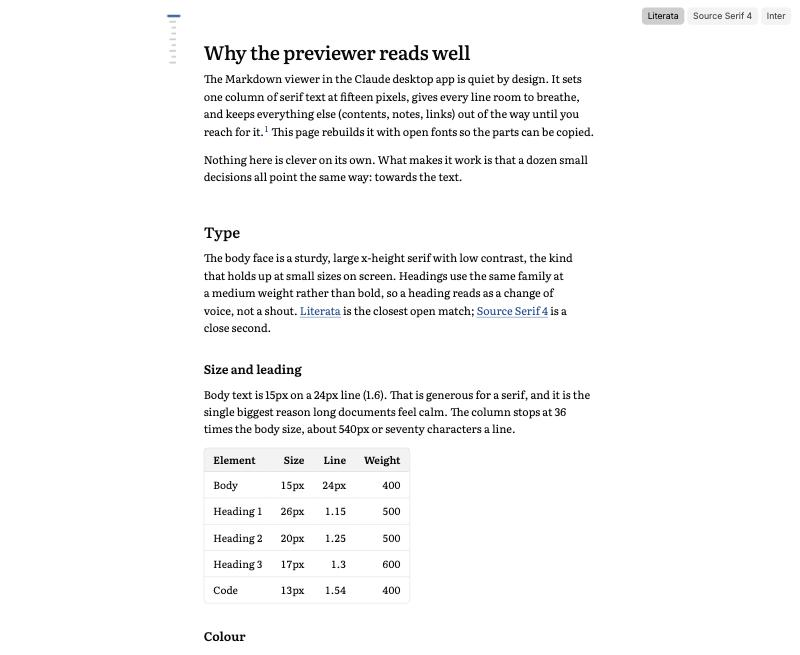
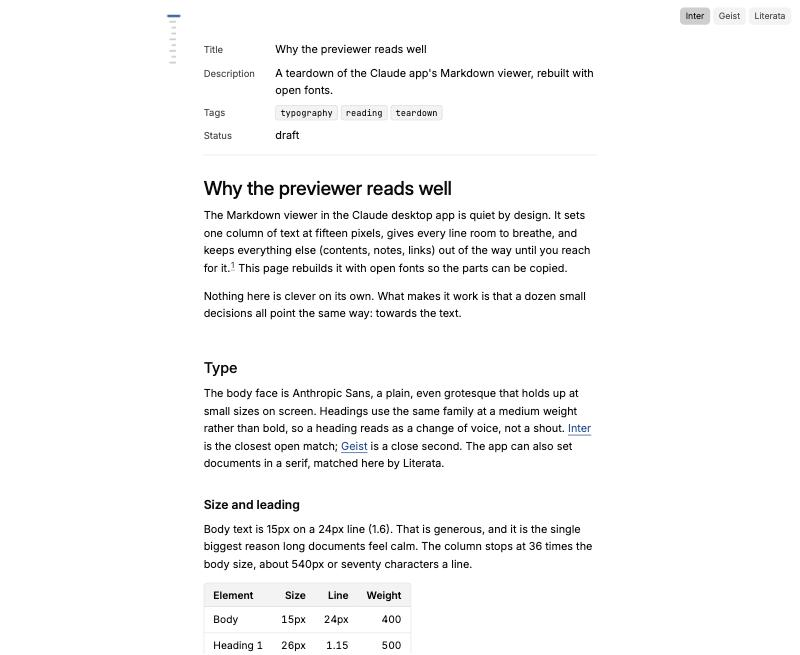
Previewer teardown: real app screenshots, sans not serif, exact type scale, frontmatter
The app's default document view is Anthropic Sans, so the open match is
Inter or Geist (serif kept as an option). Adds the exact heading and body
ratios, the frontmatter field list, wide-table bleed, and grey footnote
markers; the demo now defaults to Inter with a frontmatter block.

diff --git a/claude-md-previewer/demo.html b/claude-md-previewer/demo.html
@@ -6,7 +6,7 @@
 <title>Previewer Reading Demo</title>
 <link rel="preconnect" href="https://fonts.googleapis.com">
 <link rel="preconnect" href="https://fonts.gstatic.com" crossorigin>
-<link href="https://fonts.googleapis.com/css2?family=Literata:ital,opsz,wght@0,7..72,300..700;1,7..72,300..700&family=Source+Serif+4:ital,opsz,wght@0,8..60,300..700;1,8..60,300..700&family=Inter:wght@400..600&family=JetBrains+Mono:wght@400;500&display=swap" rel="stylesheet">
+<link href="https://fonts.googleapis.com/css2?family=Literata:ital,opsz,wght@0,7..72,300..700;1,7..72,300..700&family=Source+Serif+4:ital,opsz,wght@0,8..60,300..700;1,8..60,300..700&family=Inter:ital,opsz,wght@0,14..32,400..600;1,14..32,400..600&family=Geist:wght@400..600&family=JetBrains+Mono:wght@400;500&display=swap" rel="stylesheet">
 <style>
 /* A study of the Claude desktop app's Markdown document viewer, rebuilt with open fonts.
    Values come from the app's own stylesheet (epitaxy-document-*, .prose). See ../Claude Markdown previewer.md */
@@ -28,7 +28,7 @@
   --tint: hsl(0 0% 4% / 5%);          /* alpha-1, code and table-head fill */
   --tick: hsl(0 0% 4% / 25%);
   --paper: #fff;
-  --body-font: var(--serif);
+  --body-font: var(--sans);
 }
 @media (prefers-color-scheme: dark) {
   :root:not([data-theme="light"]) {
@@ -42,8 +42,8 @@
   --line: hsl(40 8% 94% / 10%); --line-2: hsl(40 8% 94% / 20%); --line-3: hsl(40 8% 94% / 40%);
   --tint: hsl(40 8% 94% / 5%); --tick: hsl(40 8% 94% / 25%); --paper: #1e1e1d;
 }
-[data-font="source"] { --body-font: "Source Serif 4", Georgia, serif; }
-[data-font="sans"] { --body-font: var(--sans); }
+[data-font="geist"] { --body-font: "Geist", system-ui, sans-serif; }
+[data-font="serif"] { --body-font: var(--serif); }
 
 * { box-sizing: border-box; }
 html { background: var(--paper); }
@@ -138,9 +138,20 @@ body { margin: 0; background: var(--paper); color: var(--ink); }
 
 .prose hr { border: 0; border-top: 1px solid var(--line); margin-block: 2.75em; }
 
+/* Frontmatter: a quiet two-column list of fields above the title */
+.meta {
+  display: grid; grid-template-columns: minmax(0, max-content) 1fr; align-items: baseline;
+  column-gap: 1.75rem; row-gap: 0.5rem; margin: 0 0 2em; padding-bottom: 1em; border-bottom: 1px solid var(--line);
+  font-family: var(--sans); font-size: var(--body); line-height: 1.6;
+}
+.meta dt { color: var(--ink-2); font-size: 0.87em; }
+.meta dd { margin: 0; min-width: 0; overflow-wrap: break-word; }
+.meta ul { list-style: none; margin: 0; padding: 0; display: flex; flex-wrap: wrap; gap: 4px; }
+.meta li { font-family: var(--mono); font-size: 0.8em; padding: 0 6px; border: 1px solid var(--line); border-radius: 4px; background: var(--tint); }
+
 /* Footnotes: small markers, a quiet section at the end */
 .prose sup { font-size: 0.75em; line-height: 0; }
-.prose sup a { text-decoration: none; padding-inline: 0.1em; border-radius: 3px; }
+.prose sup a { color: var(--ink-2); text-decoration-color: var(--line-3); padding-inline: 0.1em; border-radius: 3px; }
 .prose sup a[aria-expanded="true"] { background: var(--accent-bg); }
 .prose .footnotes { margin-block-start: 3em; padding-block-start: 1em; border-top: 1px solid var(--line); font-size: 0.875em; color: var(--ink-2); }
 .prose .footnotes ol { margin: 0; }
@@ -199,9 +210,9 @@ body { margin: 0; background: var(--paper); color: var(--ink); }
 </head>
 <body>
 <div class="switch" role="group" aria-label="Body font">
-  <button data-set="literata" aria-pressed="true">Literata</button>
-  <button data-set="source" aria-pressed="false">Source Serif 4</button>
-  <button data-set="sans" aria-pressed="false">Inter</button>
+  <button data-set="inter" aria-pressed="true">Inter</button>
+  <button data-set="geist" aria-pressed="false">Geist</button>
+  <button data-set="serif" aria-pressed="false">Literata</button>
 </div>
 
 <nav class="rail" aria-label="Contents" hidden>
@@ -211,21 +222,27 @@ body { margin: 0; background: var(--paper); color: var(--ink); }
 
 <div class="page">
 <div class="column">
+<dl class="meta" aria-label="Page details">
+  <dt>Title</dt><dd>Why the previewer reads well</dd>
+  <dt>Description</dt><dd>A teardown of the Claude app's Markdown viewer, rebuilt with open fonts.</dd>
+  <dt>Tags</dt><dd><ul><li>typography</li><li>reading</li><li>teardown</li></ul></dd>
+  <dt>Status</dt><dd>draft</dd>
+</dl>
 <article class="prose">
 
 <h1 id="why-it-reads-well">Why the previewer reads well</h1>
 
-<p>The Markdown viewer in the Claude desktop app is quiet by design. It sets one column of serif text at fifteen pixels, gives every line room to breathe, and keeps everything else (contents, notes, links) out of the way until you reach for it.<sup><a href="#fn-1" id="fnref-1">1</a></sup> This page rebuilds it with open fonts so the parts can be copied.</p>
+<p>The Markdown viewer in the Claude desktop app is quiet by design. It sets one column of text at fifteen pixels, gives every line room to breathe, and keeps everything else (contents, notes, links) out of the way until you reach for it.<sup><a href="#fn-1" id="fnref-1">1</a></sup> This page rebuilds it with open fonts so the parts can be copied.</p>
 
 <p>Nothing here is clever on its own. What makes it work is that a dozen small decisions all point the same way: towards the text.</p>
 
 <h2 id="type">Type</h2>
 
-<p>The body face is a sturdy, large x-height serif with low contrast, the kind that holds up at small sizes on screen. Headings use the same family at a medium weight rather than bold, so a heading reads as a change of voice, not a shout. <a href="https://fonts.google.com/specimen/Literata">Literata</a> is the closest open match; <a href="https://fonts.google.com/specimen/Source+Serif+4">Source Serif 4</a> is a close second.</p>
+<p>The body face is Anthropic Sans, a plain, even grotesque that holds up at small sizes on screen. Headings use the same family at a medium weight rather than bold, so a heading reads as a change of voice, not a shout. <a href="https://fonts.google.com/specimen/Inter">Inter</a> is the closest open match; <a href="https://fonts.google.com/specimen/Geist">Geist</a> is a close second. The app can also set documents in a serif, matched here by Literata.</p>
 
 <h3 id="size-and-leading">Size and leading</h3>
 
-<p>Body text is 15px on a 24px line (1.6). That is generous for a serif, and it is the single biggest reason long documents feel calm. The column stops at 36 times the body size, about 540px or seventy characters a line.</p>
+<p>Body text is 15px on a 24px line (1.6). That is generous, and it is the single biggest reason long documents feel calm. The column stops at 36 times the body size, about 540px or seventy characters a line.</p>
 
 <table>
 <thead><tr><th>Element</th><th class="num">Size</th><th class="num">Line</th><th class="num">Weight</th></tr></thead>

diff --git a/Claude Markdown previewer.md b/Claude Markdown previewer.md
@@ -1,62 +1,71 @@
 ---
-title: Why the Claude Markdown previewer reads so well
-description: A teardown of the document viewer in the Claude desktop app (fonts, sizes, colours, contents rail, footnote cards) with open-font equivalents and what to borrow for Flowershow research sites.
+title: "Claude Markdown previewer: an admiring teardown"
+description: Why the document viewer in the Claude desktop app reads so well (fonts, sizes, colours, frontmatter, contents rail, footnote cards), with open-font equivalents and what to borrow for Flowershow research sites.
 date: 2026-10-31
 ---
 
-The Markdown previewer in the Claude desktop app (the Files pane in the Code tab) reads better than almost any docs or research site. This page works out why, from the app's own stylesheet, and rebuilds it with open fonts so we can borrow it for our [[Flowershow]] research and knowledge-base sites.
+An admiring teardown. The Markdown previewer in the Claude desktop app (the Files pane in the Code tab) reads better than almost any docs or research site. This page works out why, from the app's own stylesheet, and rebuilds it with open fonts so we can borrow it for our [[Flowershow]] research and knowledge-base sites.
 
-**Demo:** [claude-md-previewer/demo.html](claude-md-previewer/demo.html), a rebuild with open fonts. Switch the body font (Literata, Source Serif 4, Inter), hover the ticks on the left for the contents, click a footnote number.
+![The previewer in the Claude app: frontmatter as a quiet table, then the title, sans body text, and the tick rail on the left](assets/claude-md-previewer-app-page.png)
 
-![The rebuild with Literata: one column, serif body, tick rail on the left](assets/claude-md-previewer-demo.jpg)
+**Demo:** [claude-md-previewer/demo.html](claude-md-previewer/demo.html), a rebuild with open fonts. Switch the body font (Inter, Geist, or Literata for a serif), hover the ticks on the left for the contents, click a footnote number.
 
 ## TL;DR
 
 It isn't one clever trick. A dozen small choices all favour the text:
 
-- a sturdy serif at **15px on a 24px line** (1.6)
+- a plain, even sans at **15px on a 24px line** (1.6)
 - a **540px column** (36 × body size, about 70 characters)
 - headings in the **same face at medium weight**, with space above that grows with rank
 - **every border and fill is the ink colour at 5, 10 or 20% opacity**
-- contents and footnotes that **stay out of sight until you reach for them**
+- frontmatter, contents and footnotes that **stay quiet until you reach for them**
 
 ## How I found this
 
-Everything below comes from the app's own CSS, read in place from `/Applications/Claude.app/Contents/Resources/ion-dist.asar` (the Code tab UI). The previewer is the `epitaxy-document-*` component, built on a shared `.prose` stylesheet. Colours come from the app's design tokens (`--cds-gray-*`, `--cds-blue-*`). The fonts ship in `Contents/Resources/fonts/`. Sizes are for the default "Medium" text size.
+Everything below comes from the app's own CSS, read in place from `/Applications/Claude.app/Contents/Resources/ion-dist.asar` (the Code tab UI). The previewer is the `epitaxy-document-*` component, built on a shared `.prose` stylesheet. Colours come from the app's design tokens (`--cds-gray-*`, `--cds-blue-*`). The fonts ship in `Contents/Resources/fonts/`. Sizes are for the default "Medium" text size. The app screenshots are Rufus's course drafts open in the previewer.
 
 ## Fonts
 
 **What it uses**
 
-- **Body and headings: Anthropic Serif**, a variable face with weights 300 to 800. The document view uses serif by default, with Sans as a setting. Body weight is 400.
-- **UI (contents panel, buttons): Anthropic Sans.**
+- **Body, headings, frontmatter and UI: Anthropic Sans**, a variable grotesque with weights 300 to 800. Body weight is 400, headings 500.
+- **Serif option: Anthropic Serif.** The code can set documents in serif instead (a font setting), but the default view, as in the screenshots, is sans.
 - **Code:** the system mono (SF Mono, then Menlo).
 
-Anthropic Serif appears to be the house successor to the Copernicus-style serif noted in [[Copernicus font alternatives]]. It has the same character: Plantin-like, wide, a big x-height, low contrast and sturdy strokes. That is why it holds up at 15px on screen. Neither Anthropic face can be reused.
+Anthropic Sans is a plain, even grotesque: open shapes, moderate x-height, no quirks. It is neutral enough to disappear at reading size, which is the point. Neither Anthropic face can be reused.
 
-**Why it works:** a big x-height makes 15px read like 17px in a book face. Low contrast stays crisp on ordinary screens. Using one family for headings and body keeps the page calm.
+**Why it works:** the face never draws attention to itself, and one family for headings, body and labels keeps the page calm. By contrast, Bricolage Grotesque's quirks (ink traps, wide rounds) are lovely at display sizes but noticeable in long text.
 
-**Open equivalents** (same paragraph, same size and leading):
+**Open equivalents for the sans** (same paragraph, same size and leading):
 
-![Anthropic Serif and Sans from the app compared with open serifs](assets/claude-md-previewer-fonts.jpg)
+![Anthropic Sans compared with open sans faces and Bricolage Grotesque](assets/claude-md-previewer-sans.jpg)
 
 | Rank | Face | Licence | Verdict |
 |---|---|---|---|
-| 1 | **[Literata](https://fonts.google.com/specimen/Literata)** | OFL, Google Fonts | Closest in feel: big x-height, sturdy, made for long screen reading, optical sizes. Runs about 5% wider, so lines hold a few fewer words |
-| 2 | **[Source Serif 4](https://fonts.google.com/specimen/Source+Serif+4)** | OFL, Google Fonts | Closest in width. Slightly crisper and more "book". Already the body face in our [Reading System](reading-system/) Academic theme |
-| 3 | [Charis SIL](https://fonts.google.com/specimen/Charis+SIL) (Charter) | OFL | Sturdy and plain. Good fallback, less warm |
-| 4 | [Gelasio](https://fonts.google.com/specimen/Gelasio) | OFL | Georgia's metrics. Fine, but more old-fashioned |
-| – | [Young Serif](https://fonts.google.com/specimen/Young+Serif) | OFL | Right shapes for Copernicus *headings*, too heavy for body text (single weight) |
-| – | Newsreader, Spectral, Crimson Pro | OFL | Too small an x-height or too delicate at 15px |
+| 1 | **[Inter](https://fonts.google.com/specimen/Inter)** | OFL, Google Fonts | Closest overall: same width (same line breaks), neutral, built for screens, has optical sizes and tabular figures. The safe choice |
+| 2 | **[Geist](https://fonts.google.com/specimen/Geist)** | OFL, Google Fonts | Same width again, a touch more geometric and "tech" |
+| 3 | [Public Sans](https://fonts.google.com/specimen/Public+Sans) | OFL | Close in rhythm, a little warmer; from the US Web Design System |
+| – | Instrument Sans, Hanken Grotesk, Figtree, IBM Plex Sans | OFL | Good faces, but narrower or more characterful than the app's |
 
-For the sans (UI, and a sans option for body text): **[Inter](https://fonts.google.com/specimen/Inter)** is the safe match, and [Instrument Sans](https://fonts.google.com/specimen/Instrument+Sans) has a bit more character. Both are steadier for reading than Bricolage Grotesque, whose quirks are better suited to display sizes. For code, **JetBrains Mono** or IBM Plex Mono.
+For code: **JetBrains Mono** or IBM Plex Mono.
+
+**If you want the serif option.** Anthropic Serif appears to be the house successor to the Copernicus-style serif noted in [[Copernicus font alternatives]]: Plantin-like, wide, big x-height, low contrast. The closest open serifs:
+
+![Anthropic Serif and Sans from the app compared with open serifs](assets/claude-md-previewer-fonts.jpg)
+
+| Rank | Face | Verdict |
+|---|---|---|
+| 1 | **[Literata](https://fonts.google.com/specimen/Literata)** | Closest in feel: big x-height, sturdy, made for screen reading. About 5% wider |
+| 2 | **[Source Serif 4](https://fonts.google.com/specimen/Source+Serif+4)** | Closest in width, a little crisper. Already in our [Reading System](reading-system/) |
+| 3 | [Charis SIL](https://fonts.google.com/specimen/Charis+SIL) / [Gelasio](https://fonts.google.com/specimen/Gelasio) | Sturdy fallbacks, less warm |
+| – | [Young Serif](https://fonts.google.com/specimen/Young+Serif) | Right for Copernicus-style *headings*, too heavy for body text |
 
 ## Size, measure, line height
 
 | | App value | Notes |
 |---|---|---|
 | Body | `0.9375rem` (15px) | 14px and 16px with the text-size setting |
-| Line height | body × 1.6 = 24px | generous for a serif, and the main source of the calm |
+| Line height | body × 1.6 = 24px | generous, and the main source of the calm |
 | Measure | body × 36 = 540px | scales with text size; about 70 characters |
 | Side padding | `clamp(1.25rem, 6cqi, 4rem)` | container query units, so it adapts to the pane, not the window |
 | Top / bottom padding | `clamp(2rem, 6cqi, 3.5rem)` / `6rem` | room to finish the last paragraph mid-screen |
@@ -64,14 +73,41 @@ For the sans (UI, and a sans option for body text): **[Inter](https://fonts.goog
 
 **Why it works:** a short measure and tall leading do most of the work. The extra bottom padding means the last lines aren't stuck at the bottom edge.
 
+## Frontmatter
+
+![YAML frontmatter shown as a two-column list: grey labels, plain values, list values as small chips](assets/claude-md-previewer-app-frontmatter.png)
+
+The previewer doesn't hide YAML frontmatter or dump it as code. It shows it as a **quiet two-column list** above the title:
+
+- Keys are humanised: `target_minutes` becomes "Target minutes", first letter capitalised.
+- Labels are small and grey; values are plain body text. The label column is as wide as the longest key.
+- List values (`sessions: [1]`) become small **mono chips** with a hairline border and a 5% fill.
+- A hairline rule underneath, 1em padding and 2em before the title.
+
+**Why it works:** metadata is visible and readable, but clearly not part of the document. Flowershow uses frontmatter for title and description and drops the rest.
+
 ## Headings and vertical rhythm
 
-| | Size | Line | Weight | Space above |
-|---|---|---|---|---|
-| H1 | 1.75em (26px) | 1.15 | 500, tracking −0.012em | 3em |
-| H2 | 1.35em (20px) | 1.25 | 500 | 2.5em |
-| H3 | 1.125em (17px) | 1.3 | 600 | 2em |
-| H4 | 1em | 1.3 | 600 | 1.667em |
+Exact values, at the default 15px body. Sizes are in `em` of the body, so the whole scale moves with the 14/15/16px text-size setting.
+
+| | Ratio to body | px | Step from the one below | Line height | Weight (nominal / variable axis) | Space above |
+|---|---|---|---|---|---|---|
+| H1 | **1.75** | 26.25 | 1.296 × H2 | 1.15 (30.2px) | 500 / `wght` 460, tracking −0.012em | 3em |
+| H2 | **1.35** | 20.25 | 1.2 × H3 | 1.25 (25.3px) | 500 / `wght` 460 | 2.5em |
+| H3 | **1.125** | 16.875 | 1.125 × H4 | 1.3 (21.9px) | 600 / `wght` 540 | 2em |
+| H4 | **1** | 15 | – | 1.3 (19.5px) | 600 / `wght` 540 | 1.667em |
+| Body | **1** | 15 | – | **1.6** (24px) | 400 | 1em between blocks |
+| Table text | 0.9375 | 14.06 | | 1.5 | 400, headers 600 | 2em after |
+| Footnotes | 0.875 | 13.1 | | inherits | 400, secondary colour | 3em above the section |
+| Code (inline and block) | body − 2px | 13 | | 1.54 (20px) in blocks | 400 | |
+| Superscripts | 0.75 | 11.25 | | 0 | | |
+
+Notes on the scale:
+
+- It is **not a modular scale**. The steps shrink as you go down (1.3, 1.2, 1.125), so the top heading is clearly a title and the lower ones are barely bigger than the text. H4 is body size, set apart only by weight.
+- Line height tightens as size grows: 1.6 for body, 1.3 for small headings, 1.25 for H2, 1.15 for H1.
+- Weights are set through the variable font's axis: headings use `wght` 460 (medium) and 540 (semibold), lighter than the nominal 500 and 600. That is part of why the headings feel soft.
+- Ratio of body line to body size: 24/15 = 1.6. Measure: 36 × 15 = 540px.
 
 - The flow unit is **1em between blocks**. After a heading the gap is **0.667em**, so a heading clearly belongs to the text under it. Two headings in a row sit 0.9em apart.
 - After a table or list the gap grows to 2em, and so does the space before an H3, table or rule. A rule carries its own 2.75em margins.
@@ -117,7 +153,9 @@ Links are always underlined, but the underline is lighter than the text (about 6
 
 - Thin outer border (10%), 6px corners, rows divided by hairlines, a **5% tint on the header**, which **sticks** when you scroll a long table.
 - 0.9375em text on a 1.5 line, `tabular-nums lining-nums` so figures line up, cells padded 0.5em × 0.875em, headers weight 600 and bottom-aligned.
-- Tables size to their content (`width: auto`). Wide ones scroll sideways and can bleed into the margins.
+- Tables size to their content (`width: auto`). Wide ones **bleed out into the margins** rather than squeeze the columns, and scroll sideways only when they still don't fit.
+
+![A wide table bleeding past the text column](assets/claude-md-previewer-app-table.png)
 
 ## Code
 
@@ -126,7 +164,7 @@ Links are always underlined, but the underline is lighter than the text (about 6
 
 ## Table of contents: the tick rail
 
-![Hovering the rail opens the outline; the blue tick marks where you are](assets/claude-md-previewer-outline.jpg)
+![Hovering the rail opens the outline: titles truncate with an ellipsis, the blue tick marks where you are](assets/claude-md-previewer-app-outline.png)
 
 The contents is the most distinctive piece:
 
@@ -142,11 +180,11 @@ The contents is the most distinctive piece:
 
 ## Footnotes: card, then jump
 
-![Clicking a footnote number opens the note in a card with a Jump to note button](assets/claude-md-previewer-footnote.jpg)
+![Clicking a footnote number opens the note in a card below it, with a Jump to note button](assets/claude-md-previewer-app-footnote.png)
 
 The card opens on **click**, not hover. That works on touch screens and avoids cards popping up as the pointer passes.
 
-- Markers are small superscripts in the accent colour.
+- Markers are small grey superscripts with a faint underline, so they read as links without shouting.
 - **Click the number** and the note opens in a **20rem card just below it**, in the body font at a smaller size, with its back-link removed.
 - The card has one button, **"Jump to note ↓"**. It scrolls to the note, which flashes a pale blue for 1.6 seconds (`data-landed`) so your eye finds it.
 - Click the number again, click outside, press Escape, or **scroll more than a third of a screen away**, and the card closes.
@@ -167,17 +205,18 @@ The card opens on **click**, not hover. That works on touch screens and avoids c
 
 Ranked by gain to reading for the effort. The Flowershow change is what each would need on our sites. Flowershow takes fonts and colours through `custom.css` (`--font-body`, `--font-heading`, `--color-l-*`, `--font-size-base`). Site-wide scripts go in the `head` config key (premium, which we have). Per-page scripts use the `scripts` frontmatter.
 
-1. **Body type: a sturdy serif at 15–16px on a 1.6 line.** Use Literata (or Source Serif 4) instead of Bricolage Grotesque for body text. *Flowershow:* `@import` the Google Fonts line, set `--font-body` and `--font-size-base`, and set `line-height: 1.6` on `.prose` (or the theme's content class) in `custom.css`.
+1. **Body type: a plain sans at 15–16px on a 1.6 line.** Use Inter (or Geist) instead of Bricolage Grotesque for body text, headings and labels. *Flowershow:* `@import` the Google Fonts line, set `--font-body` and `--font-size-base`, and set `line-height: 1.6` on `.prose` (or the theme's content class) in `custom.css`.
 2. **A 36em measure (about 540–580px).** *Flowershow:* check the theme's column width; set `max-width: 36em` on the article body in `custom.css` (or use `layout: plain` with our own wrapper).
 3. **Footnote card: click to open, "Jump to note", flash on landing.** The biggest UX gain for research pages. *Flowershow:* Flowershow renders GFM footnotes as plain links to the end of the page. Add [Littlefoot](https://littlefoot.js.org/) or the demo's ~60-line script through `head`, plus its CSS. This would also be a good upstream feature for Flowershow itself.
 4. **Quiet headings with rank-based spacing.** Same family, weight 500/600, sizes 1.75/1.35/1.125em, space above 3/2.5/2em and 0.667em below. *Flowershow:* about 15 lines of `custom.css`. Set `--font-heading` to the body face.
-5. **Ink-derived colour: warm near-black, warm greys, one accent, borders and fills as 5/10/20% of the ink.** *Flowershow:* set `--color-l-foreground`, `--color-l-accent` and the dark equivalents, then restyle borders in `custom.css` with `color-mix()`.
-6. **Light underlined links** (about 65% underline, 3px offset, full on hover). *Flowershow:* five lines of `custom.css`.
-7. **Calm tables and code:** tinted sticky header, hairline rows, tabular figures; inline code in body colour with a faint box. *Flowershow:* `custom.css` only.
-8. **Tick-rail contents** with current and read states, outline on hover. The most distinctive piece, and the most work. *Flowershow:* turn off the built-in contents (`showToc: false`) and add the demo's rail script and CSS through `head`. Show it only on pages with three or more headings. Try it on one long page first. On phones, keep Flowershow's own contents or none.
-9. **Finishing touches:** `text-wrap: pretty/balance`, heading anchors on hover, 6rem bottom padding, print rules. *Flowershow:* `custom.css`. Anchors need a small script, or a check whether Flowershow already adds them.
+5. **Frontmatter as a quiet field list** above the title, with list values as chips. *Flowershow:* not possible in CSS, as Flowershow doesn't render other frontmatter fields. Either a small script reading a data block, or ask Flowershow for a `showFrontmatter` option. Most useful for knowledge-base and project pages.
+6. **Ink-derived colour: warm near-black, warm greys, one accent, borders and fills as 5/10/20% of the ink.** *Flowershow:* set `--color-l-foreground`, `--color-l-accent` and the dark equivalents, then restyle borders in `custom.css` with `color-mix()`.
+7. **Light underlined links** (about 65% underline, 3px offset, full on hover). *Flowershow:* five lines of `custom.css`.
+8. **Calm tables and code:** tinted sticky header, hairline rows, tabular figures; inline code in body colour with a faint box. *Flowershow:* `custom.css` only.
+9. **Tick-rail contents** with current and read states, outline on hover. The most distinctive piece, and the most work. *Flowershow:* turn off the built-in contents (`showToc: false`) and add the demo's rail script and CSS through `head`. Show it only on pages with three or more headings. Try it on one long page first. On phones, keep Flowershow's own contents or none.
+10. **Finishing touches:** `text-wrap: pretty/balance`, heading anchors on hover, 6rem bottom padding, print rules. *Flowershow:* `custom.css`. Anchors need a small script, or a check whether Flowershow already adds them.
 
-Items 1, 2 and 4–7 and 9 are pure CSS and could become one `custom.css` for the research-site house style. Items 3 and 8 need one shared script. The brief for that house style is in the design repo: `projects/2640-research-site-style.md`.
+Items 1, 2, 4, 6–8 and 10 are pure CSS and could become one `custom.css` for the research-site house style. Items 3, 5 and 9 need a script. The brief for that house style is in the design repo: `projects/2640-research-site-style.md`.
 
 ## See also
 

diff --git a/changelog/2026-10-31-claude-markdown-previewer.md b/changelog/2026-10-31-claude-markdown-previewer.md
@@ -1,9 +1,9 @@
 ---
 date: 2026-10-31
-title: Why the Claude Markdown previewer reads so well
+title: "Claude Markdown previewer: an admiring teardown"
 promote: false
 ---
 
-A teardown of the document viewer in the Claude desktop app: its fonts, sizes, colours, tick-rail contents and click-to-open footnote cards, with open-font equivalents (Literata, Source Serif 4) and a ranked list of what to borrow for Flowershow research sites. Includes a working demo.
+A teardown of the document viewer in the Claude desktop app: its fonts, sizes, colours, frontmatter display, tick-rail contents and click-to-open footnote cards, with exact sizes and ratios, open-font equivalents (Inter, Geist; Literata for a serif) and a ranked list of what to borrow for Flowershow research sites. Includes a working demo.
 
 See: [Claude Markdown previewer](/Claude%20Markdown%20previewer), [the demo](/claude-md-previewer/demo.html).
